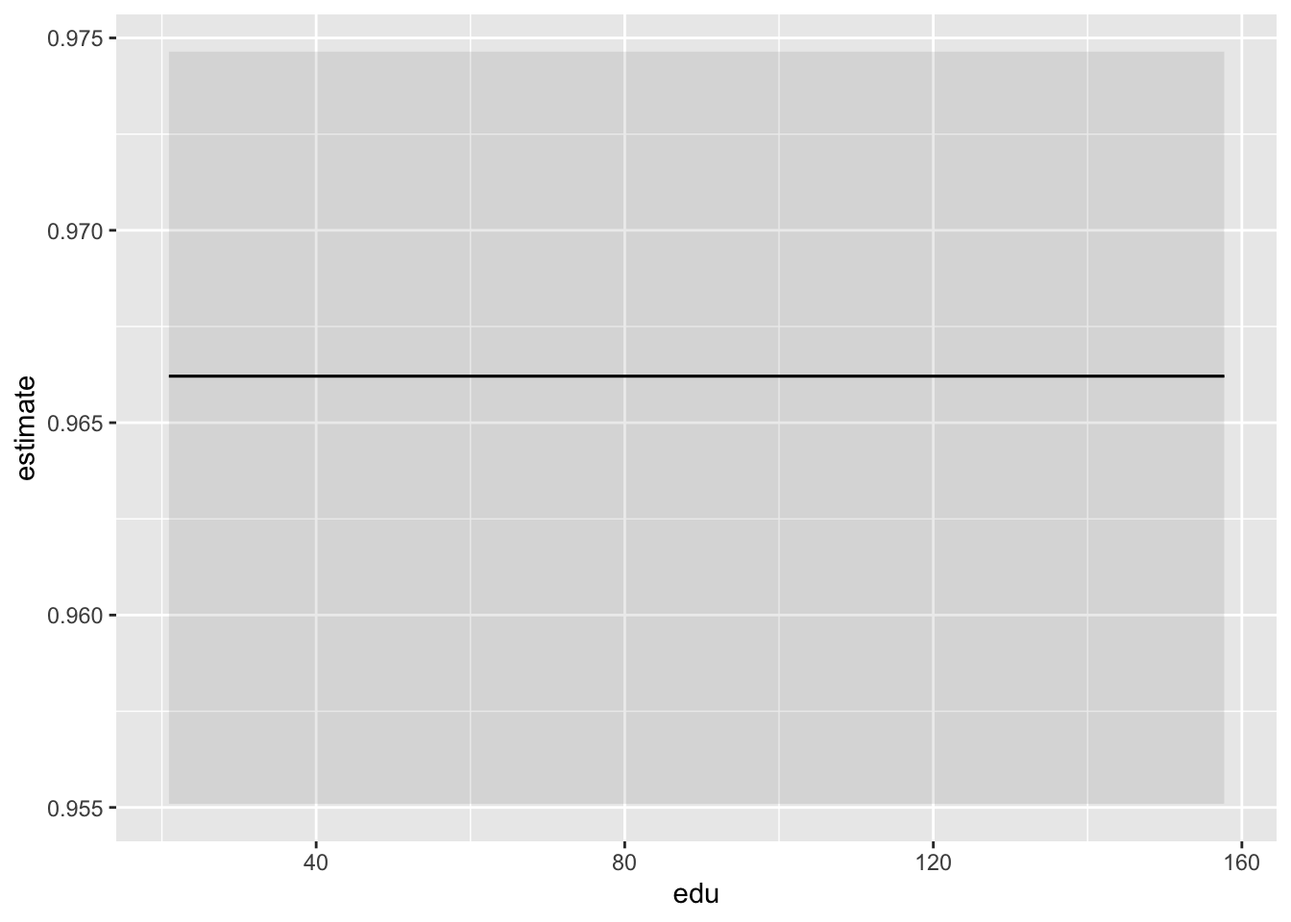
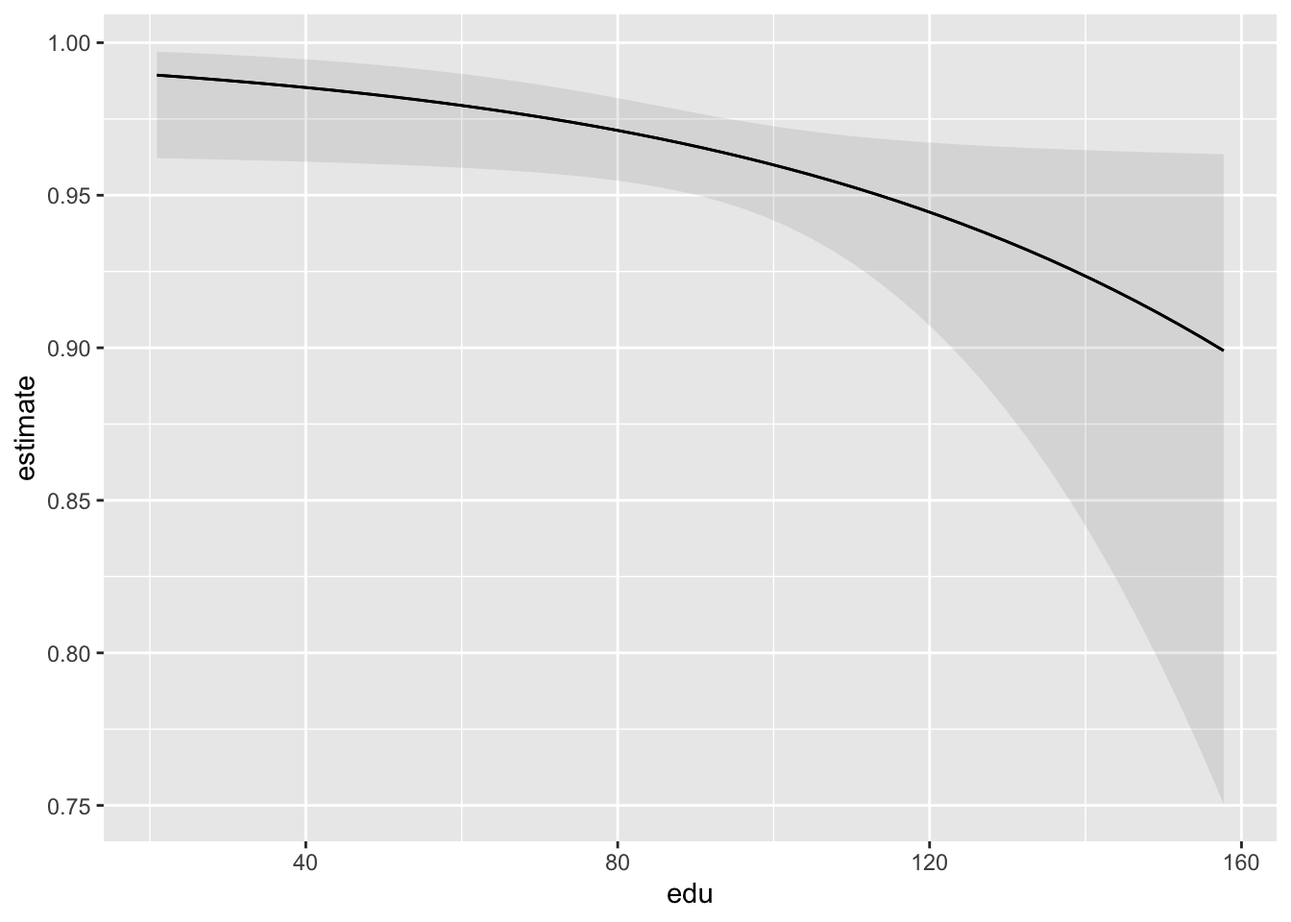
Update Lesson 5 and render site

diff --git a/docs/index.html b/docs/index.html
@@ -2827,7 +2827,7 @@ Note:                                    *p&lt;0.1; **p&lt;0.05; ***p&lt;0.01</c
 <div class="cell-output cell-output-stdout">
 <pre><code>
 % Table created by stargazer v.5.2.3 by Marek Hlavac, Social Policy Institute. E-mail: marek.hlavac at gmail.com
-% Date and time: Fri, Mar 13, 2026 - 11:06:38
+% Date and time: Fri, Mar 13, 2026 - 11:10:01
 \begin{table}[!htbp] \centering 
   \caption{} 
   \label{} 
@@ -2883,20 +2883,20 @@ F Statistic &amp; 1.772 (df = 1; 1931) &amp; 75.533$^{***}$ (df = 2; 1930) \\
 
     <script>
       // Create table-specific functions using external factory
-      const tableFns_wk2gnfpb9hniblfep1pq = TinyTable.createTableFunctions("tinytable_wk2gnfpb9hniblfep1pq");
+      const tableFns_tp32qhkrqdk301tl3wt1 = TinyTable.createTableFunctions("tinytable_tp32qhkrqdk301tl3wt1");
       // tinytable span after
       window.addEventListener('load', function () {
           var cellsToStyle = [
             // tinytable style arrays after
-          { positions: [ { i: '5', j: 1 }, { i: '5', j: 2 }, { i: '5', j: 3 }, { i: '5', j: 4 }, { i: '5', j: 5 }, { i: '5', j: 6 }, { i: '5', j: 7 }, { i: '5', j: 8 }, { i: '5', j: 9 } ], css_id: 'tinytable_css_jsvz5rkdw4veenbywybf',}, 
-          { positions: [ { i: '1', j: 1 }, { i: '2', j: 1 }, { i: '3', j: 1 }, { i: '4', j: 1 }, { i: '1', j: 2 }, { i: '2', j: 2 }, { i: '3', j: 2 }, { i: '4', j: 2 }, { i: '1', j: 3 }, { i: '2', j: 3 }, { i: '3', j: 3 }, { i: '4', j: 3 }, { i: '1', j: 4 }, { i: '2', j: 4 }, { i: '3', j: 4 }, { i: '4', j: 4 }, { i: '1', j: 5 }, { i: '2', j: 5 }, { i: '3', j: 5 }, { i: '4', j: 5 }, { i: '1', j: 6 }, { i: '2', j: 6 }, { i: '3', j: 6 }, { i: '4', j: 6 }, { i: '1', j: 7 }, { i: '2', j: 7 }, { i: '3', j: 7 }, { i: '4', j: 7 }, { i: '1', j: 8 }, { i: '2', j: 8 }, { i: '3', j: 8 }, { i: '4', j: 8 }, { i: '1', j: 9 }, { i: '2', j: 9 }, { i: '3', j: 9 }, { i: '4', j: 9 } ], css_id: 'tinytable_css_mqisooj793y20gdtxkcj',}, 
-          { positions: [ { i: '0', j: 1 }, { i: '0', j: 2 }, { i: '0', j: 3 }, { i: '0', j: 4 }, { i: '0', j: 5 }, { i: '0', j: 6 }, { i: '0', j: 7 }, { i: '0', j: 8 }, { i: '0', j: 9 } ], css_id: 'tinytable_css_pbaawuusamfjo04tvp04',}, 
+          { positions: [ { i: '5', j: 1 }, { i: '5', j: 2 }, { i: '5', j: 3 }, { i: '5', j: 4 }, { i: '5', j: 5 }, { i: '5', j: 6 }, { i: '5', j: 7 }, { i: '5', j: 8 }, { i: '5', j: 9 } ], css_id: 'tinytable_css_keqguum8q54p1gb0u8d3',}, 
+          { positions: [ { i: '1', j: 1 }, { i: '2', j: 1 }, { i: '3', j: 1 }, { i: '4', j: 1 }, { i: '1', j: 2 }, { i: '2', j: 2 }, { i: '3', j: 2 }, { i: '4', j: 2 }, { i: '1', j: 3 }, { i: '2', j: 3 }, { i: '3', j: 3 }, { i: '4', j: 3 }, { i: '1', j: 4 }, { i: '2', j: 4 }, { i: '3', j: 4 }, { i: '4', j: 4 }, { i: '1', j: 5 }, { i: '2', j: 5 }, { i: '3', j: 5 }, { i: '4', j: 5 }, { i: '1', j: 6 }, { i: '2', j: 6 }, { i: '3', j: 6 }, { i: '4', j: 6 }, { i: '1', j: 7 }, { i: '2', j: 7 }, { i: '3', j: 7 }, { i: '4', j: 7 }, { i: '1', j: 8 }, { i: '2', j: 8 }, { i: '3', j: 8 }, { i: '4', j: 8 }, { i: '1', j: 9 }, { i: '2', j: 9 }, { i: '3', j: 9 }, { i: '4', j: 9 } ], css_id: 'tinytable_css_n0y679unefsoggzp425r',}, 
+          { positions: [ { i: '0', j: 1 }, { i: '0', j: 2 }, { i: '0', j: 3 }, { i: '0', j: 4 }, { i: '0', j: 5 }, { i: '0', j: 6 }, { i: '0', j: 7 }, { i: '0', j: 8 }, { i: '0', j: 9 } ], css_id: 'tinytable_css_6ge9emce84r6isjqgoaz',}, 
           ];
 
           // Loop over the arrays to style the cells
           cellsToStyle.forEach(function (group) {
               group.positions.forEach(function (cell) {
-                  tableFns_wk2gnfpb9hniblfep1pq.styleCell(cell.i, cell.j, group.css_id);
+                  tableFns_tp32qhkrqdk301tl3wt1.styleCell(cell.i, cell.j, group.css_id);
               });
           });
       });
@@ -2905,12 +2905,12 @@ F Statistic &amp; 1.772 (df = 1; 1931) &amp; 75.533$^{***}$ (df = 2; 1930) \\
     <link rel="stylesheet" href="https://cdn.jsdelivr.net/gh/vincentarelbundock/tinytable@main/inst/tinytable.css">
     <style>
     /* tinytable css entries after */
-    #tinytable_wk2gnfpb9hniblfep1pq td.tinytable_css_jsvz5rkdw4veenbywybf, #tinytable_wk2gnfpb9hniblfep1pq th.tinytable_css_jsvz5rkdw4veenbywybf {  position: relative; --border-bottom: 1; --border-left: 0; --border-right: 0; --border-top: 0; --line-color-bottom: black; --line-color-left: black; --line-color-right: black; --line-color-top: black; --line-width-bottom: 0.1em; --line-width-left: 0.1em; --line-width-right: 0.1em; --line-width-top: 0.1em; --trim-bottom-left: 0%; --trim-bottom-right: 0%; --trim-left-bottom: 0%; --trim-left-top: 0%; --trim-right-bottom: 0%; --trim-right-top: 0%; --trim-top-left: 0%; --trim-top-right: 0%; ; text-align: left }
-    #tinytable_wk2gnfpb9hniblfep1pq td.tinytable_css_mqisooj793y20gdtxkcj, #tinytable_wk2gnfpb9hniblfep1pq th.tinytable_css_mqisooj793y20gdtxkcj { text-align: left }
-    #tinytable_wk2gnfpb9hniblfep1pq td.tinytable_css_pbaawuusamfjo04tvp04, #tinytable_wk2gnfpb9hniblfep1pq th.tinytable_css_pbaawuusamfjo04tvp04 {  position: relative; --border-bottom: 1; --border-left: 0; --border-right: 0; --border-top: 1; --line-color-bottom: black; --line-color-left: black; --line-color-right: black; --line-color-top: black; --line-width-bottom: 0.05em; --line-width-left: 0.1em; --line-width-right: 0.1em; --line-width-top: 0.1em; --trim-bottom-left: 0%; --trim-bottom-right: 0%; --trim-left-bottom: 0%; --trim-left-top: 0%; --trim-right-bottom: 0%; --trim-right-top: 0%; --trim-top-left: 0%; --trim-top-right: 0%; ; text-align: left }
+    #tinytable_tp32qhkrqdk301tl3wt1 td.tinytable_css_keqguum8q54p1gb0u8d3, #tinytable_tp32qhkrqdk301tl3wt1 th.tinytable_css_keqguum8q54p1gb0u8d3 {  position: relative; --border-bottom: 1; --border-left: 0; --border-right: 0; --border-top: 0; --line-color-bottom: black; --line-color-left: black; --line-color-right: black; --line-color-top: black; --line-width-bottom: 0.1em; --line-width-left: 0.1em; --line-width-right: 0.1em; --line-width-top: 0.1em; --trim-bottom-left: 0%; --trim-bottom-right: 0%; --trim-left-bottom: 0%; --trim-left-top: 0%; --trim-right-bottom: 0%; --trim-right-top: 0%; --trim-top-left: 0%; --trim-top-right: 0%; ; text-align: left }
+    #tinytable_tp32qhkrqdk301tl3wt1 td.tinytable_css_n0y679unefsoggzp425r, #tinytable_tp32qhkrqdk301tl3wt1 th.tinytable_css_n0y679unefsoggzp425r { text-align: left }
+    #tinytable_tp32qhkrqdk301tl3wt1 td.tinytable_css_6ge9emce84r6isjqgoaz, #tinytable_tp32qhkrqdk301tl3wt1 th.tinytable_css_6ge9emce84r6isjqgoaz {  position: relative; --border-bottom: 1; --border-left: 0; --border-right: 0; --border-top: 1; --line-color-bottom: black; --line-color-left: black; --line-color-right: black; --line-color-top: black; --line-width-bottom: 0.05em; --line-width-left: 0.1em; --line-width-right: 0.1em; --line-width-top: 0.1em; --trim-bottom-left: 0%; --trim-bottom-right: 0%; --trim-left-bottom: 0%; --trim-left-top: 0%; --trim-right-bottom: 0%; --trim-right-top: 0%; --trim-top-left: 0%; --trim-top-right: 0%; ; text-align: left }
     </style>
     <div class="container">
-      <table class="tinytable" id="tinytable_wk2gnfpb9hniblfep1pq" style="width: auto; margin-left: auto; margin-right: auto;" data-quarto-disable-processing="true">
+      <table class="tinytable" id="tinytable_tp32qhkrqdk301tl3wt1" style="width: auto; margin-left: auto; margin-right: auto;" data-quarto-disable-processing="true">
         
         <thead>
               <tr>
@@ -3001,21 +3001,21 @@ F Statistic &amp; 1.772 (df = 1; 1931) &amp; 75.533$^{***}$ (df = 2; 1930) \\
 
     <script>
       // Create table-specific functions using external factory
-      const tableFns_4harldx1wp9er9o8yjzu = TinyTable.createTableFunctions("tinytable_4harldx1wp9er9o8yjzu");
+      const tableFns_5g9wyzxvg8z5opp1z19c = TinyTable.createTableFunctions("tinytable_5g9wyzxvg8z5opp1z19c");
       // tinytable span after
       window.addEventListener('load', function () {
           var cellsToStyle = [
             // tinytable style arrays after
-          { positions: [ { i: '1', j: 2 }, { i: '1', j: 3 }, { i: '1', j: 4 } ], css_id: 'tinytable_css_f7q21jii9aigyw76wvdx',}, 
-          { positions: [ { i: '0', j: 2 }, { i: '0', j: 3 }, { i: '0', j: 4 } ], css_id: 'tinytable_css_4b2m5cepjda45ullfuoa',}, 
-          { positions: [ { i: '1', j: 1 } ], css_id: 'tinytable_css_xslrgptxp3coczq6vmtq',}, 
-          { positions: [ { i: '0', j: 1 } ], css_id: 'tinytable_css_sy1m93tybbxdbfj73zqe',}, 
+          { positions: [ { i: '1', j: 2 }, { i: '1', j: 3 }, { i: '1', j: 4 } ], css_id: 'tinytable_css_mri1wczujulp6krzoewh',}, 
+          { positions: [ { i: '0', j: 2 }, { i: '0', j: 3 }, { i: '0', j: 4 } ], css_id: 'tinytable_css_8pqla0d0oxa9mk3cp65j',}, 
+          { positions: [ { i: '1', j: 1 } ], css_id: 'tinytable_css_k04xfak15e4pokp0jcai',}, 
+          { positions: [ { i: '0', j: 1 } ], css_id: 'tinytable_css_1ajebd0ocsp962f3w316',}, 
           ];
 
           // Loop over the arrays to style the cells
           cellsToStyle.forEach(function (group) {
               group.positions.forEach(function (cell) {
-                  tableFns_4harldx1wp9er9o8yjzu.styleCell(cell.i, cell.j, group.css_id);
+                  tableFns_5g9wyzxvg8z5opp1z19c.styleCell(cell.i, cell.j, group.css_id);
               });
           });
       });
@@ -3024,13 +3024,13 @@ F Statistic &amp; 1.772 (df = 1; 1931) &amp; 75.533$^{***}$ (df = 2; 1930) \\
     <link rel="stylesheet" href="https://cdn.jsdelivr.net/gh/vincentarelbundock/tinytable@main/inst/tinytable.css">
     <style>
     /* tinytable css entries after */
-    #tinytable_4harldx1wp9er9o8yjzu td.tinytable_css_f7q21jii9aigyw76wvdx, #tinytable_4harldx1wp9er9o8yjzu th.tinytable_css_f7q21jii9aigyw76wvdx {  position: relative; --border-bottom: 1; --border-left: 0; --border-right: 0; --border-top: 0; --line-color-bottom: black; --line-color-left: black; --line-color-right: black; --line-color-top: black; --line-width-bottom: 0.1em; --line-width-left: 0.1em; --line-width-right: 0.1em; --line-width-top: 0.1em; --trim-bottom-left: 0%; --trim-bottom-right: 0%; --trim-left-bottom: 0%; --trim-left-top: 0%; --trim-right-bottom: 0%; --trim-right-top: 0%; --trim-top-left: 0%; --trim-top-right: 0%; ; text-align: right }
-    #tinytable_4harldx1wp9er9o8yjzu td.tinytable_css_4b2m5cepjda45ullfuoa, #tinytable_4harldx1wp9er9o8yjzu th.tinytable_css_4b2m5cepjda45ullfuoa {  position: relative; --border-bottom: 1; --border-left: 0; --border-right: 0; --border-top: 1; --line-color-bottom: black; --line-color-left: black; --line-color-right: black; --line-color-top: black; --line-width-bottom: 0.05em; --line-width-left: 0.1em; --line-width-right: 0.1em; --line-width-top: 0.1em; --trim-bottom-left: 0%; --trim-bottom-right: 0%; --trim-left-bottom: 0%; --trim-left-top: 0%; --trim-right-bottom: 0%; --trim-right-top: 0%; --trim-top-left: 0%; --trim-top-right: 0%; ; text-align: right }
-    #tinytable_4harldx1wp9er9o8yjzu td.tinytable_css_xslrgptxp3coczq6vmtq, #tinytable_4harldx1wp9er9o8yjzu th.tinytable_css_xslrgptxp3coczq6vmtq {  position: relative; --border-bottom: 1; --border-left: 0; --border-right: 0; --border-top: 0; --line-color-bottom: black; --line-color-left: black; --line-color-right: black; --line-color-top: black; --line-width-bottom: 0.1em; --line-width-left: 0.1em; --line-width-right: 0.1em; --line-width-top: 0.1em; --trim-bottom-left: 0%; --trim-bottom-right: 0%; --trim-left-bottom: 0%; --trim-left-top: 0%; --trim-right-bottom: 0%; --trim-right-top: 0%; --trim-top-left: 0%; --trim-top-right: 0%; ; text-align: left }
-    #tinytable_4harldx1wp9er9o8yjzu td.tinytable_css_sy1m93tybbxdbfj73zqe, #tinytable_4harldx1wp9er9o8yjzu th.tinytable_css_sy1m93tybbxdbfj73zqe {  position: relative; --border-bottom: 1; --border-left: 0; --border-right: 0; --border-top: 1; --line-color-bottom: black; --line-color-left: black; --line-color-right: black; --line-color-top: black; --line-width-bottom: 0.05em; --line-width-left: 0.1em; --line-width-right: 0.1em; --line-width-top: 0.1em; --trim-bottom-left: 0%; --trim-bottom-right: 0%; --trim-left-bottom: 0%; --trim-left-top: 0%; --trim-right-bottom: 0%; --trim-right-top: 0%; --trim-top-left: 0%; --trim-top-right: 0%; ; text-align: left }
+    #tinytable_5g9wyzxvg8z5opp1z19c td.tinytable_css_mri1wczujulp6krzoewh, #tinytable_5g9wyzxvg8z5opp1z19c th.tinytable_css_mri1wczujulp6krzoewh {  position: relative; --border-bottom: 1; --border-left: 0; --border-right: 0; --border-top: 0; --line-color-bottom: black; --line-color-left: black; --line-color-right: black; --line-color-top: black; --line-width-bottom: 0.1em; --line-width-left: 0.1em; --line-width-right: 0.1em; --line-width-top: 0.1em; --trim-bottom-left: 0%; --trim-bottom-right: 0%; --trim-left-bottom: 0%; --trim-left-top: 0%; --trim-right-bottom: 0%; --trim-right-top: 0%; --trim-top-left: 0%; --trim-top-right: 0%; ; text-align: right }
+    #tinytable_5g9wyzxvg8z5opp1z19c td.tinytable_css_8pqla0d0oxa9mk3cp65j, #tinytable_5g9wyzxvg8z5opp1z19c th.tinytable_css_8pqla0d0oxa9mk3cp65j {  position: relative; --border-bottom: 1; --border-left: 0; --border-right: 0; --border-top: 1; --line-color-bottom: black; --line-color-left: black; --line-color-right: black; --line-color-top: black; --line-width-bottom: 0.05em; --line-width-left: 0.1em; --line-width-right: 0.1em; --line-width-top: 0.1em; --trim-bottom-left: 0%; --trim-bottom-right: 0%; --trim-left-bottom: 0%; --trim-left-top: 0%; --trim-right-bottom: 0%; --trim-right-top: 0%; --trim-top-left: 0%; --trim-top-right: 0%; ; text-align: right }
+    #tinytable_5g9wyzxvg8z5opp1z19c td.tinytable_css_k04xfak15e4pokp0jcai, #tinytable_5g9wyzxvg8z5opp1z19c th.tinytable_css_k04xfak15e4pokp0jcai {  position: relative; --border-bottom: 1; --border-left: 0; --border-right: 0; --border-top: 0; --line-color-bottom: black; --line-color-left: black; --line-color-right: black; --line-color-top: black; --line-width-bottom: 0.1em; --line-width-left: 0.1em; --line-width-right: 0.1em; --line-width-top: 0.1em; --trim-bottom-left: 0%; --trim-bottom-right: 0%; --trim-left-bottom: 0%; --trim-left-top: 0%; --trim-right-bottom: 0%; --trim-right-top: 0%; --trim-top-left: 0%; --trim-top-right: 0%; ; text-align: left }
+    #tinytable_5g9wyzxvg8z5opp1z19c td.tinytable_css_1ajebd0ocsp962f3w316, #tinytable_5g9wyzxvg8z5opp1z19c th.tinytable_css_1ajebd0ocsp962f3w316 {  position: relative; --border-bottom: 1; --border-left: 0; --border-right: 0; --border-top: 1; --line-color-bottom: black; --line-color-left: black; --line-color-right: black; --line-color-top: black; --line-width-bottom: 0.05em; --line-width-left: 0.1em; --line-width-right: 0.1em; --line-width-top: 0.1em; --trim-bottom-left: 0%; --trim-bottom-right: 0%; --trim-left-bottom: 0%; --trim-left-top: 0%; --trim-right-bottom: 0%; --trim-right-top: 0%; --trim-top-left: 0%; --trim-top-right: 0%; ; text-align: left }
     </style>
     <div class="container">
-      <table class="tinytable" id="tinytable_4harldx1wp9er9o8yjzu" style="width: auto; margin-left: auto; margin-right: auto;" data-quarto-disable-processing="true">
+      <table class="tinytable" id="tinytable_5g9wyzxvg8z5opp1z19c" style="width: auto; margin-left: auto; margin-right: auto;" data-quarto-disable-processing="true">
         
         <thead>
               <tr>
@@ -3066,25 +3066,25 @@ F Statistic &amp; 1.772 (df = 1; 1931) &amp; 75.533$^{***}$ (df = 2; 1930) \\
 
     <script>
       // Create table-specific functions using external factory
-      const tableFns_hgyd1wxg5cgjrcygehso = TinyTable.createTableFunctions("tinytable_hgyd1wxg5cgjrcygehso");
+      const tableFns_gr5p6o3wto27afeciu5i = TinyTable.createTableFunctions("tinytable_gr5p6o3wto27afeciu5i");
       // tinytable span after
       window.addEventListener('load', function () {
           var cellsToStyle = [
             // tinytable style arrays after
-          { positions: [ { i: '15', j: 2 }, { i: '15', j: 3 }, { i: '15', j: 4 } ], css_id: 'tinytable_css_8xlmw68whoyv2fv7dcre',}, 
-          { positions: [ { i: '8', j: 2 }, { i: '8', j: 3 }, { i: '8', j: 4 } ], css_id: 'tinytable_css_ciaqlsvw561g0vfbdc9z',}, 
-          { positions: [ { i: '1', j: 2 }, { i: '2', j: 2 }, { i: '3', j: 2 }, { i: '4', j: 2 }, { i: '5', j: 2 }, { i: '6', j: 2 }, { i: '7', j: 2 }, { i: '9', j: 2 }, { i: '10', j: 2 }, { i: '11', j: 2 }, { i: '12', j: 2 }, { i: '13', j: 2 }, { i: '14', j: 2 }, { i: '1', j: 3 }, { i: '2', j: 3 }, { i: '3', j: 3 }, { i: '4', j: 3 }, { i: '5', j: 3 }, { i: '6', j: 3 }, { i: '7', j: 3 }, { i: '9', j: 3 }, { i: '10', j: 3 }, { i: '11', j: 3 }, { i: '12', j: 3 }, { i: '13', j: 3 }, { i: '14', j: 3 }, { i: '1', j: 4 }, { i: '2', j: 4 }, { i: '3', j: 4 }, { i: '4', j: 4 }, { i: '5', j: 4 }, { i: '6', j: 4 }, { i: '7', j: 4 }, { i: '9', j: 4 }, { i: '10', j: 4 }, { i: '11', j: 4 }, { i: '12', j: 4 }, { i: '13', j: 4 }, { i: '14', j: 4 } ], css_id: 'tinytable_css_emtem045lynho9mo9e1e',}, 
-          { positions: [ { i: '0', j: 2 }, { i: '0', j: 3 }, { i: '0', j: 4 } ], css_id: 'tinytable_css_z914lojxn6ryqypmv9t8',}, 
-          { positions: [ { i: '15', j: 1 } ], css_id: 'tinytable_css_y2dvvglsltv43i8oqxgg',}, 
-          { positions: [ { i: '8', j: 1 } ], css_id: 'tinytable_css_0hmcj69d7icr6uh2rvqy',}, 
-          { positions: [ { i: '1', j: 1 }, { i: '2', j: 1 }, { i: '3', j: 1 }, { i: '4', j: 1 }, { i: '5', j: 1 }, { i: '6', j: 1 }, { i: '7', j: 1 }, { i: '9', j: 1 }, { i: '10', j: 1 }, { i: '11', j: 1 }, { i: '12', j: 1 }, { i: '13', j: 1 }, { i: '14', j: 1 } ], css_id: 'tinytable_css_2qa487qh4xjd0kljevyw',}, 
-          { positions: [ { i: '0', j: 1 } ], css_id: 'tinytable_css_m7hk03cir2ca43d0wp2s',}, 
+          { positions: [ { i: '15', j: 2 }, { i: '15', j: 3 }, { i: '15', j: 4 } ], css_id: 'tinytable_css_9d9haokpl0tz9r25yio8',}, 
+          { positions: [ { i: '8', j: 2 }, { i: '8', j: 3 }, { i: '8', j: 4 } ], css_id: 'tinytable_css_siu4no02jgtcztjvxhlu',}, 
+          { positions: [ { i: '1', j: 2 }, { i: '2', j: 2 }, { i: '3', j: 2 }, { i: '4', j: 2 }, { i: '5', j: 2 }, { i: '6', j: 2 }, { i: '7', j: 2 }, { i: '9', j: 2 }, { i: '10', j: 2 }, { i: '11', j: 2 }, { i: '12', j: 2 }, { i: '13', j: 2 }, { i: '14', j: 2 }, { i: '1', j: 3 }, { i: '2', j: 3 }, { i: '3', j: 3 }, { i: '4', j: 3 }, { i: '5', j: 3 }, { i: '6', j: 3 }, { i: '7', j: 3 }, { i: '9', j: 3 }, { i: '10', j: 3 }, { i: '11', j: 3 }, { i: '12', j: 3 }, { i: '13', j: 3 }, { i: '14', j: 3 }, { i: '1', j: 4 }, { i: '2', j: 4 }, { i: '3', j: 4 }, { i: '4', j: 4 }, { i: '5', j: 4 }, { i: '6', j: 4 }, { i: '7', j: 4 }, { i: '9', j: 4 }, { i: '10', j: 4 }, { i: '11', j: 4 }, { i: '12', j: 4 }, { i: '13', j: 4 }, { i: '14', j: 4 } ], css_id: 'tinytable_css_o1527aplncloepwinl05',}, 
+          { positions: [ { i: '0', j: 2 }, { i: '0', j: 3 }, { i: '0', j: 4 } ], css_id: 'tinytable_css_v788cm9goig2h9rlyq94',}, 
+          { positions: [ { i: '15', j: 1 } ], css_id: 'tinytable_css_wq1yri9h4hqcce31rdz1',}, 
+          { positions: [ { i: '8', j: 1 } ], css_id: 'tinytable_css_22u5xt1l3hskp0xwtpto',}, 
+          { positions: [ { i: '1', j: 1 }, { i: '2', j: 1 }, { i: '3', j: 1 }, { i: '4', j: 1 }, { i: '5', j: 1 }, { i: '6', j: 1 }, { i: '7', j: 1 }, { i: '9', j: 1 }, { i: '10', j: 1 }, { i: '11', j: 1 }, { i: '12', j: 1 }, { i: '13', j: 1 }, { i: '14', j: 1 } ], css_id: 'tinytable_css_6q9bz3p0bg1eahmxkk4p',}, 
+          { positions: [ { i: '0', j: 1 } ], css_id: 'tinytable_css_6pfr7i4jk03jhl5p8nyv',}, 
           ];
 
           // Loop over the arrays to style the cells
           cellsToStyle.forEach(function (group) {
               group.positions.forEach(function (cell) {
-                  tableFns_hgyd1wxg5cgjrcygehso.styleCell(cell.i, cell.j, group.css_id);
+                  tableFns_gr5p6o3wto27afeciu5i.styleCell(cell.i, cell.j, group.css_id);
               });
           });
       });
@@ -3093,17 +3093,17 @@ F Statistic &amp; 1.772 (df = 1; 1931) &amp; 75.533$^{***}$ (df = 2; 1930) \\
     <link rel="stylesheet" href="https://cdn.jsdelivr.net/gh/vincentarelbundock/tinytable@main/inst/tinytable.css">
     <style>
     /* tinytable css entries after */
-    #tinytable_hgyd1wxg5cgjrcygehso td.tinytable_css_8xlmw68whoyv2fv7dcre, #tinytable_hgyd1wxg5cgjrcygehso th.tinytable_css_8xlmw68whoyv2fv7dcre {  position: relative; --border-bottom: 1; --border-left: 0; --border-right: 0; --border-top: 0; --line-color-bottom: black; --line-color-left: black; --line-color-right: black; --line-color-top: black; --line-width-bottom: 0.1em; --line-width-left: 0.1em; --line-width-right: 0.1em; --line-width-top: 0.1em; --trim-bottom-left: 0%; --trim-bottom-right: 0%; --trim-left-bottom: 0%; --trim-left-top: 0%; --trim-right-bottom: 0%; --trim-right-top: 0%; --trim-top-left: 0%; --trim-top-right: 0%; ; text-align: center }
-    #tinytable_hgyd1wxg5cgjrcygehso td.tinytable_css_ciaqlsvw561g0vfbdc9z, #tinytable_hgyd1wxg5cgjrcygehso th.tinytable_css_ciaqlsvw561g0vfbdc9z {  position: relative; --border-bottom: 1; --border-left: 0; --border-right: 0; --border-top: 0; --line-color-bottom: black; --line-color-left: black; --line-color-right: black; --line-color-top: black; --line-width-bottom: 0.05em; --line-width-left: 0.1em; --line-width-right: 0.1em; --line-width-top: 0.1em; --trim-bottom-left: 0%; --trim-bottom-right: 0%; --trim-left-bottom: 0%; --trim-left-top: 0%; --trim-right-bottom: 0%; --trim-right-top: 0%; --trim-top-left: 0%; --trim-top-right: 0%; ; text-align: center }
-    #tinytable_hgyd1wxg5cgjrcygehso td.tinytable_css_emtem045lynho9mo9e1e, #tinytable_hgyd1wxg5cgjrcygehso th.tinytable_css_emtem045lynho9mo9e1e { text-align: center }
-    #tinytable_hgyd1wxg5cgjrcygehso td.tinytable_css_z914lojxn6ryqypmv9t8, #tinytable_hgyd1wxg5cgjrcygehso th.tinytable_css_z914lojxn6ryqypmv9t8 {  position: relative; --border-bottom: 1; --border-left: 0; --border-right: 0; --border-top: 1; --line-color-bottom: black; --line-color-left: black; --line-color-right: black; --line-color-top: black; --line-width-bottom: 0.05em; --line-width-left: 0.1em; --line-width-right: 0.1em; --line-width-top: 0.1em; --trim-bottom-left: 0%; --trim-bottom-right: 0%; --trim-left-bottom: 0%; --trim-left-top: 0%; --trim-right-bottom: 0%; --trim-right-top: 0%; --trim-top-left: 0%; --trim-top-right: 0%; ; text-align: center }
-    #tinytable_hgyd1wxg5cgjrcygehso td.tinytable_css_y2dvvglsltv43i8oqxgg, #tinytable_hgyd1wxg5cgjrcygehso th.tinytable_css_y2dvvglsltv43i8oqxgg {  position: relative; --border-bottom: 1; --border-left: 0; --border-right: 0; --border-top: 0; --line-color-bottom: black; --line-color-left: black; --line-color-right: black; --line-color-top: black; --line-width-bottom: 0.1em; --line-width-left: 0.1em; --line-width-right: 0.1em; --line-width-top: 0.1em; --trim-bottom-left: 0%; --trim-bottom-right: 0%; --trim-left-bottom: 0%; --trim-left-top: 0%; --trim-right-bottom: 0%; --trim-right-top: 0%; --trim-top-left: 0%; --trim-top-right: 0%; ; text-align: left }
-    #tinytable_hgyd1wxg5cgjrcygehso td.tinytable_css_0hmcj69d7icr6uh2rvqy, #tinytable_hgyd1wxg5cgjrcygehso th.tinytable_css_0hmcj69d7icr6uh2rvqy {  position: relative; --border-bottom: 1; --border-left: 0; --border-right: 0; --border-top: 0; --line-color-bottom: black; --line-color-left: black; --line-color-right: black; --line-color-top: black; --line-width-bottom: 0.05em; --line-width-left: 0.1em; --line-width-right: 0.1em; --line-width-top: 0.1em; --trim-bottom-left: 0%; --trim-bottom-right: 0%; --trim-left-bottom: 0%; --trim-left-top: 0%; --trim-right-bottom: 0%; --trim-right-top: 0%; --trim-top-left: 0%; --trim-top-right: 0%; ; text-align: left }
-    #tinytable_hgyd1wxg5cgjrcygehso td.tinytable_css_2qa487qh4xjd0kljevyw, #tinytable_hgyd1wxg5cgjrcygehso th.tinytable_css_2qa487qh4xjd0kljevyw { text-align: left }
-    #tinytable_hgyd1wxg5cgjrcygehso td.tinytable_css_m7hk03cir2ca43d0wp2s, #tinytable_hgyd1wxg5cgjrcygehso th.tinytable_css_m7hk03cir2ca43d0wp2s {  position: relative; --border-bottom: 1; --border-left: 0; --border-right: 0; --border-top: 1; --line-color-bottom: black; --line-color-left: black; --line-color-right: black; --line-color-top: black; --line-width-bottom: 0.05em; --line-width-left: 0.1em; --line-width-right: 0.1em; --line-width-top: 0.1em; --trim-bottom-left: 0%; --trim-bottom-right: 0%; --trim-left-bottom: 0%; --trim-left-top: 0%; --trim-right-bottom: 0%; --trim-right-top: 0%; --trim-top-left: 0%; --trim-top-right: 0%; ; text-align: left }
+    #tinytable_gr5p6o3wto27afeciu5i td.tinytable_css_9d9haokpl0tz9r25yio8, #tinytable_gr5p6o3wto27afeciu5i th.tinytable_css_9d9haokpl0tz9r25yio8 {  position: relative; --border-bottom: 1; --border-left: 0; --border-right: 0; --border-top: 0; --line-color-bottom: black; --line-color-left: black; --line-color-right: black; --line-color-top: black; --line-width-bottom: 0.1em; --line-width-left: 0.1em; --line-width-right: 0.1em; --line-width-top: 0.1em; --trim-bottom-left: 0%; --trim-bottom-right: 0%; --trim-left-bottom: 0%; --trim-left-top: 0%; --trim-right-bottom: 0%; --trim-right-top: 0%; --trim-top-left: 0%; --trim-top-right: 0%; ; text-align: center }
+    #tinytable_gr5p6o3wto27afeciu5i td.tinytable_css_siu4no02jgtcztjvxhlu, #tinytable_gr5p6o3wto27afeciu5i th.tinytable_css_siu4no02jgtcztjvxhlu {  position: relative; --border-bottom: 1; --border-left: 0; --border-right: 0; --border-top: 0; --line-color-bottom: black; --line-color-left: black; --line-color-right: black; --line-color-top: black; --line-width-bottom: 0.05em; --line-width-left: 0.1em; --line-width-right: 0.1em; --line-width-top: 0.1em; --trim-bottom-left: 0%; --trim-bottom-right: 0%; --trim-left-bottom: 0%; --trim-left-top: 0%; --trim-right-bottom: 0%; --trim-right-top: 0%; --trim-top-left: 0%; --trim-top-right: 0%; ; text-align: center }
+    #tinytable_gr5p6o3wto27afeciu5i td.tinytable_css_o1527aplncloepwinl05, #tinytable_gr5p6o3wto27afeciu5i th.tinytable_css_o1527aplncloepwinl05 { text-align: center }
+    #tinytable_gr5p6o3wto27afeciu5i td.tinytable_css_v788cm9goig2h9rlyq94, #tinytable_gr5p6o3wto27afeciu5i th.tinytable_css_v788cm9goig2h9rlyq94 {  position: relative; --border-bottom: 1; --border-left: 0; --border-right: 0; --border-top: 1; --line-color-bottom: black; --line-color-left: black; --line-color-right: black; --line-color-top: black; --line-width-bottom: 0.05em; --line-width-left: 0.1em; --line-width-right: 0.1em; --line-width-top: 0.1em; --trim-bottom-left: 0%; --trim-bottom-right: 0%; --trim-left-bottom: 0%; --trim-left-top: 0%; --trim-right-bottom: 0%; --trim-right-top: 0%; --trim-top-left: 0%; --trim-top-right: 0%; ; text-align: center }
+    #tinytable_gr5p6o3wto27afeciu5i td.tinytable_css_wq1yri9h4hqcce31rdz1, #tinytable_gr5p6o3wto27afeciu5i th.tinytable_css_wq1yri9h4hqcce31rdz1 {  position: relative; --border-bottom: 1; --border-left: 0; --border-right: 0; --border-top: 0; --line-color-bottom: black; --line-color-left: black; --line-color-right: black; --line-color-top: black; --line-width-bottom: 0.1em; --line-width-left: 0.1em; --line-width-right: 0.1em; --line-width-top: 0.1em; --trim-bottom-left: 0%; --trim-bottom-right: 0%; --trim-left-bottom: 0%; --trim-left-top: 0%; --trim-right-bottom: 0%; --trim-right-top: 0%; --trim-top-left: 0%; --trim-top-right: 0%; ; text-align: left }
+    #tinytable_gr5p6o3wto27afeciu5i td.tinytable_css_22u5xt1l3hskp0xwtpto, #tinytable_gr5p6o3wto27afeciu5i th.tinytable_css_22u5xt1l3hskp0xwtpto {  position: relative; --border-bottom: 1; --border-left: 0; --border-right: 0; --border-top: 0; --line-color-bottom: black; --line-color-left: black; --line-color-right: black; --line-color-top: black; --line-width-bottom: 0.05em; --line-width-left: 0.1em; --line-width-right: 0.1em; --line-width-top: 0.1em; --trim-bottom-left: 0%; --trim-bottom-right: 0%; --trim-left-bottom: 0%; --trim-left-top: 0%; --trim-right-bottom: 0%; --trim-right-top: 0%; --trim-top-left: 0%; --trim-top-right: 0%; ; text-align: left }
+    #tinytable_gr5p6o3wto27afeciu5i td.tinytable_css_6q9bz3p0bg1eahmxkk4p, #tinytable_gr5p6o3wto27afeciu5i th.tinytable_css_6q9bz3p0bg1eahmxkk4p { text-align: left }
+    #tinytable_gr5p6o3wto27afeciu5i td.tinytable_css_6pfr7i4jk03jhl5p8nyv, #tinytable_gr5p6o3wto27afeciu5i th.tinytable_css_6pfr7i4jk03jhl5p8nyv {  position: relative; --border-bottom: 1; --border-left: 0; --border-right: 0; --border-top: 1; --line-color-bottom: black; --line-color-left: black; --line-color-right: black; --line-color-top: black; --line-width-bottom: 0.05em; --line-width-left: 0.1em; --line-width-right: 0.1em; --line-width-top: 0.1em; --trim-bottom-left: 0%; --trim-bottom-right: 0%; --trim-left-bottom: 0%; --trim-left-top: 0%; --trim-right-bottom: 0%; --trim-right-top: 0%; --trim-top-left: 0%; --trim-top-right: 0%; ; text-align: left }
     </style>
     <div class="container">
-      <table class="tinytable" id="tinytable_hgyd1wxg5cgjrcygehso" style="width: auto; margin-left: auto; margin-right: auto;" data-quarto-disable-processing="true">
+      <table class="tinytable" id="tinytable_gr5p6o3wto27afeciu5i" style="width: auto; margin-left: auto; margin-right: auto;" data-quarto-disable-processing="true">
         
         <thead>
               <tr>
@@ -3299,7 +3299,7 @@ Comparison: dY/dX</code></pre>
 <p>We can also visualise predicted probabilities with <code>plot_predictions()</code>. This allows us to see how the predicted probability of conflict changes across different values of an independent variable.</p>
 <div class="cell">
 <div class="code-copy-outer-scaffold"><div class="sourceCode cell-code" id="cb256"><pre class="sourceCode r code-with-copy"><code class="sourceCode r"><span id="cb256-1"><a href="#cb256-1" aria-hidden="true" tabindex="-1"></a><span class="fu">plot_predictions</span>(</span>
-<span id="cb256-2"><a href="#cb256-2" aria-hidden="true" tabindex="-1"></a>  logit1,</span>
+<span id="cb256-2"><a href="#cb256-2" aria-hidden="true" tabindex="-1"></a>  logit2,</span>
 <span id="cb256-3"><a href="#cb256-3" aria-hidden="true" tabindex="-1"></a>  <span class="at">condition =</span> <span class="st">"edu"</span></span>
 <span id="cb256-4"><a href="#cb256-4" aria-hidden="true" tabindex="-1"></a>)</span></code></pre></div><button title="Copy to Clipboard" class="code-copy-button"><i class="bi"></i></button></div>
 <div class="cell-output-display">

diff --git a/regression_table.tex b/regression_table.tex
@@ -1,6 +1,6 @@
 
 % Table created by stargazer v.5.2.3 by Marek Hlavac, Social Policy Institute. E-mail: marek.hlavac at gmail.com
-% Date and time: Fri, Mar 13, 2026 - 11:06:38
+% Date and time: Fri, Mar 13, 2026 - 11:10:01
 \begin{table}[!htbp] \centering 
   \caption{} 
   \label{} 
